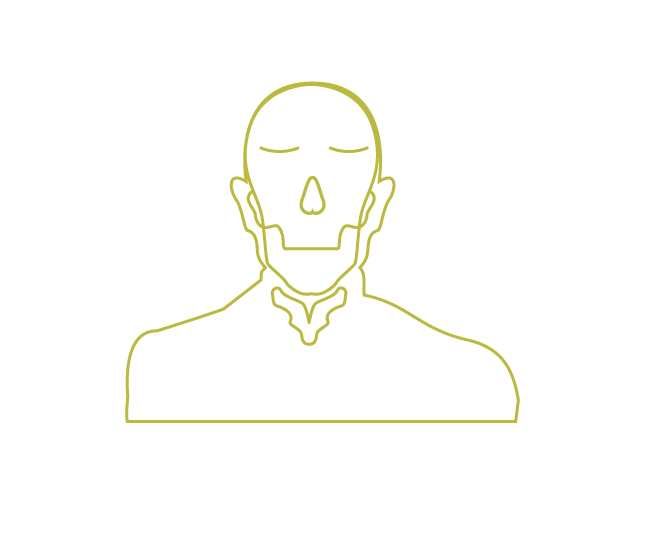
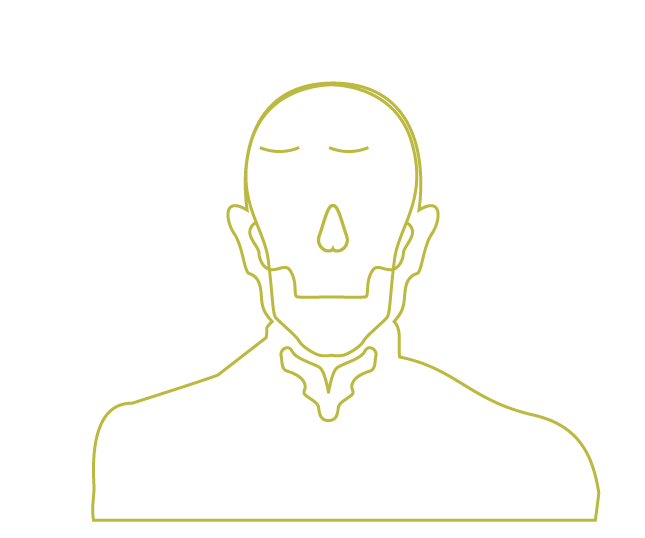
add new data to ENT Screen

diff --git a/screens/VideoViews.js b/screens/VideoViews.js
@@ -1,6 +1,8 @@
 import { StyleSheet, View, Text , Dimensions, Image} from "react-native";
 import React, { Component } from "react";
+import * as Font from 'expo-font';
 import HeadNeckScreen from '../screens/HeadNeckScreen';
+import ENTScreen from '../screens/ENTScreen';
 import ThoraxScreen from '../screens/ThoraxScreen';
 import AbdoPelvisScreen from '../screens/AbdoPelvisScreen';
 import BackLimbsScreen from '../screens/BackLimbsScreen';
@@ -83,17 +85,20 @@ export default class ViewPagerPage extends Component {
   }
  
   _renderTitleIndicator() {
-    return <PagerTitleIndicator titles={["introductions","head and neck", "thorax", "abdomen and pelvis","back and limbs","embryology"]} />;
+    return <PagerTitleIndicator titles={["introductions","head and neck", "ear, nose and throat", "thorax", "abdomen and pelvis","back and limbs","embryology"]} />;
   }
  
   _renderDotIndicator() {
-    return <PagerDotIndicator pageCount={6} />;
+    return <PagerDotIndicator pageCount={7} />;
   }
  
   /* _renderTabIndicator() {
     let tabs = [
       {
         text: "head and neck",
+      },
+      {
+        text: "ear, nose and throat",
       },
       {
         text: "thorax",
